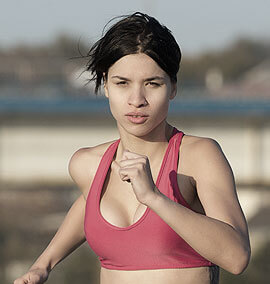
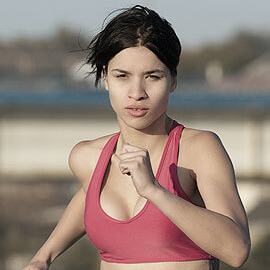
cont6 프로필 이미지 수정

diff --git a/index.html b/index.html
@@ -62,7 +62,7 @@
           <a href="#"><i class="fa-brands fa-facebook"></i></a>
           <a href="#"> <i class="fa-brands fa-twitter"></i></a>
           <a href="#"><i class="fa-brands fa-instagram"></i></a>
-          <a href="#"> <i class="fa-brands fa-youtube"></i></a>
+          <a href="#"><i class="fa-brands fa-square-youtube"></i></a>
         </div>
       </div>
       <div class="activemenu">
@@ -284,7 +284,7 @@
         <div class="slider">
           <div class="slide1">
             <div class="contents">
-              <img src="img/circleimg01.png" />
+              <img src="img/circleimg01.jpg" />
               <h2>Edward Evans</h2>
               <h3>Best Customer</h3>
               <p>
@@ -504,7 +504,7 @@
         <a href="#"><i class="fa-brands fa-facebook"></i></a>
         <a href="#"><i class="fa-brands fa-twitter"></i></a>
         <a href="#"><i class="fa-brands fa-instagram"></i></a>
-        <a href="#"><i class="fa-brands fa-youtube"></i></a>
+        <a href="#"><i class="fa-brands fa-square-youtube"></i></a>
       </div>
       <div class="signature">
         <i>Made with love by <span>Dreemsthemes</span></i>
